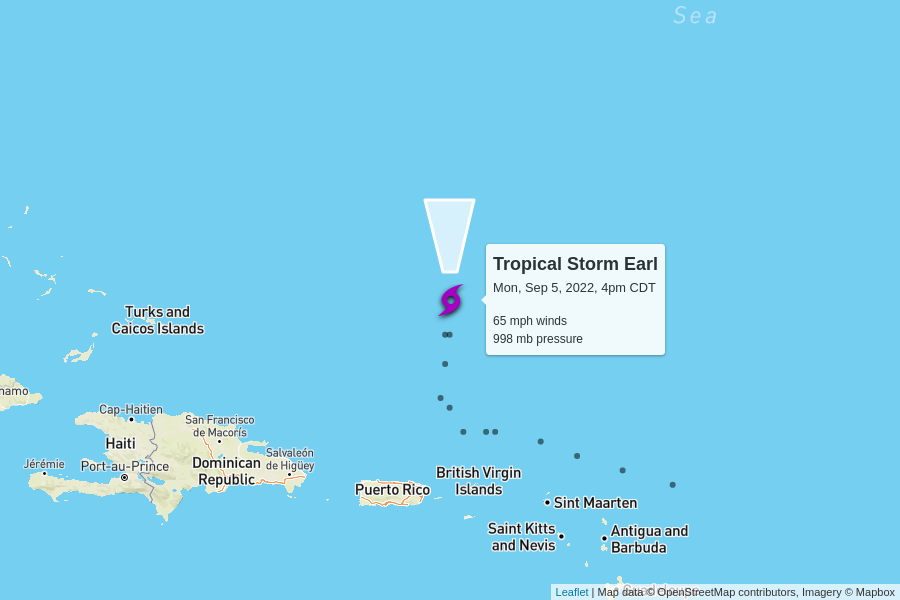
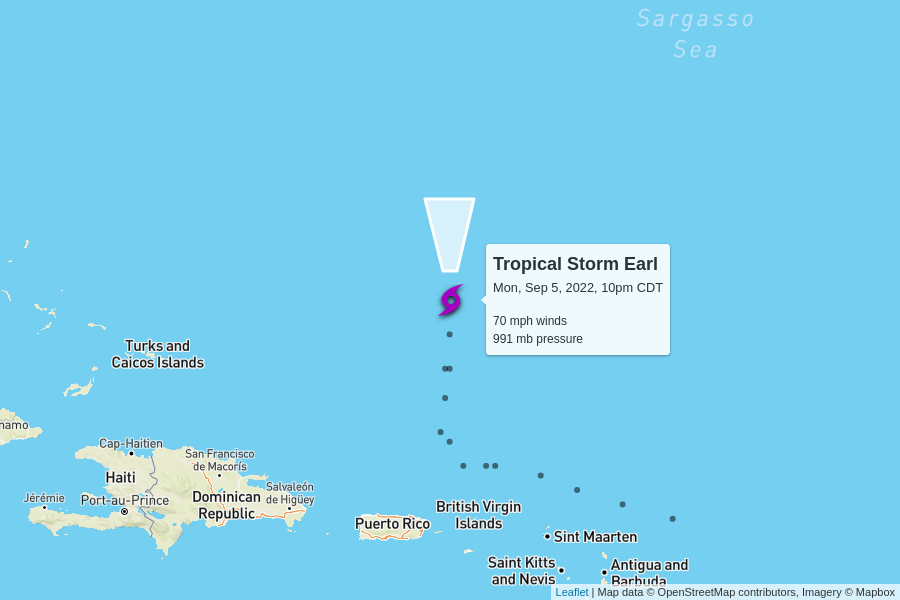
automatic update

diff --git a/docs/index.html b/docs/index.html
@@ -100,7 +100,7 @@
         <td colspan="6" class="storm category-1" >
           <h2>
             Hurricane Danielle - Category 1
-            <p class="updated">last updated <span data-time>2022-09-05T21:00:00.000Z</span></p>
+            <p class="updated">last updated <span data-time>2022-09-06T03:00:00.000Z</span></p>
           </h2>
         </td>
       </tr>
@@ -115,12 +115,12 @@
       </tr>
       <tr>
         <td class="spacer"></td>
-        <td>85 mph</td>
-        <td>976 mb</td>
+        <td>80 mph</td>
+        <td>980 mb</td>
         <td>
-          9 mph to the north-northeast
+          9 mph to the northeast
           <br/>
-          <span style="display: inline-block; font-size: 1.5em; transform: rotate(30deg);">↑</span>
+          <span style="display: inline-block; font-size: 1.5em; transform: rotate(35deg);">↑</span>
         </td>
         <td><a href="https://raw.githubusercontent.com/mgwalker/atlantic-hurricanes/main/data/csv/AL052022.csv">AL052022.csv</a></td>
         <td><a href="https://www.nhc.noaa.gov/archive/2022/DANIELLE.shtml?">NHC advisories</a></td>
@@ -144,7 +144,7 @@
         <td colspan="6" class="storm category-0" >
           <h2>
             Tropical Storm Earl
-            <p class="updated">last updated <span data-time>2022-09-05T21:00:00.000Z</span></p>
+            <p class="updated">last updated <span data-time>2022-09-06T03:00:00.000Z</span></p>
           </h2>
         </td>
       </tr>
@@ -159,10 +159,10 @@
       </tr>
       <tr>
         <td class="spacer"></td>
-        <td>65 mph</td>
-        <td>998 mb</td>
+        <td>70 mph</td>
+        <td>991 mb</td>
         <td>
-          6 mph to the north
+          7 mph to the north
           <br/>
           <span style="display: inline-block; font-size: 1.5em; transform: rotate(360deg);">↑</span>
         </td>
